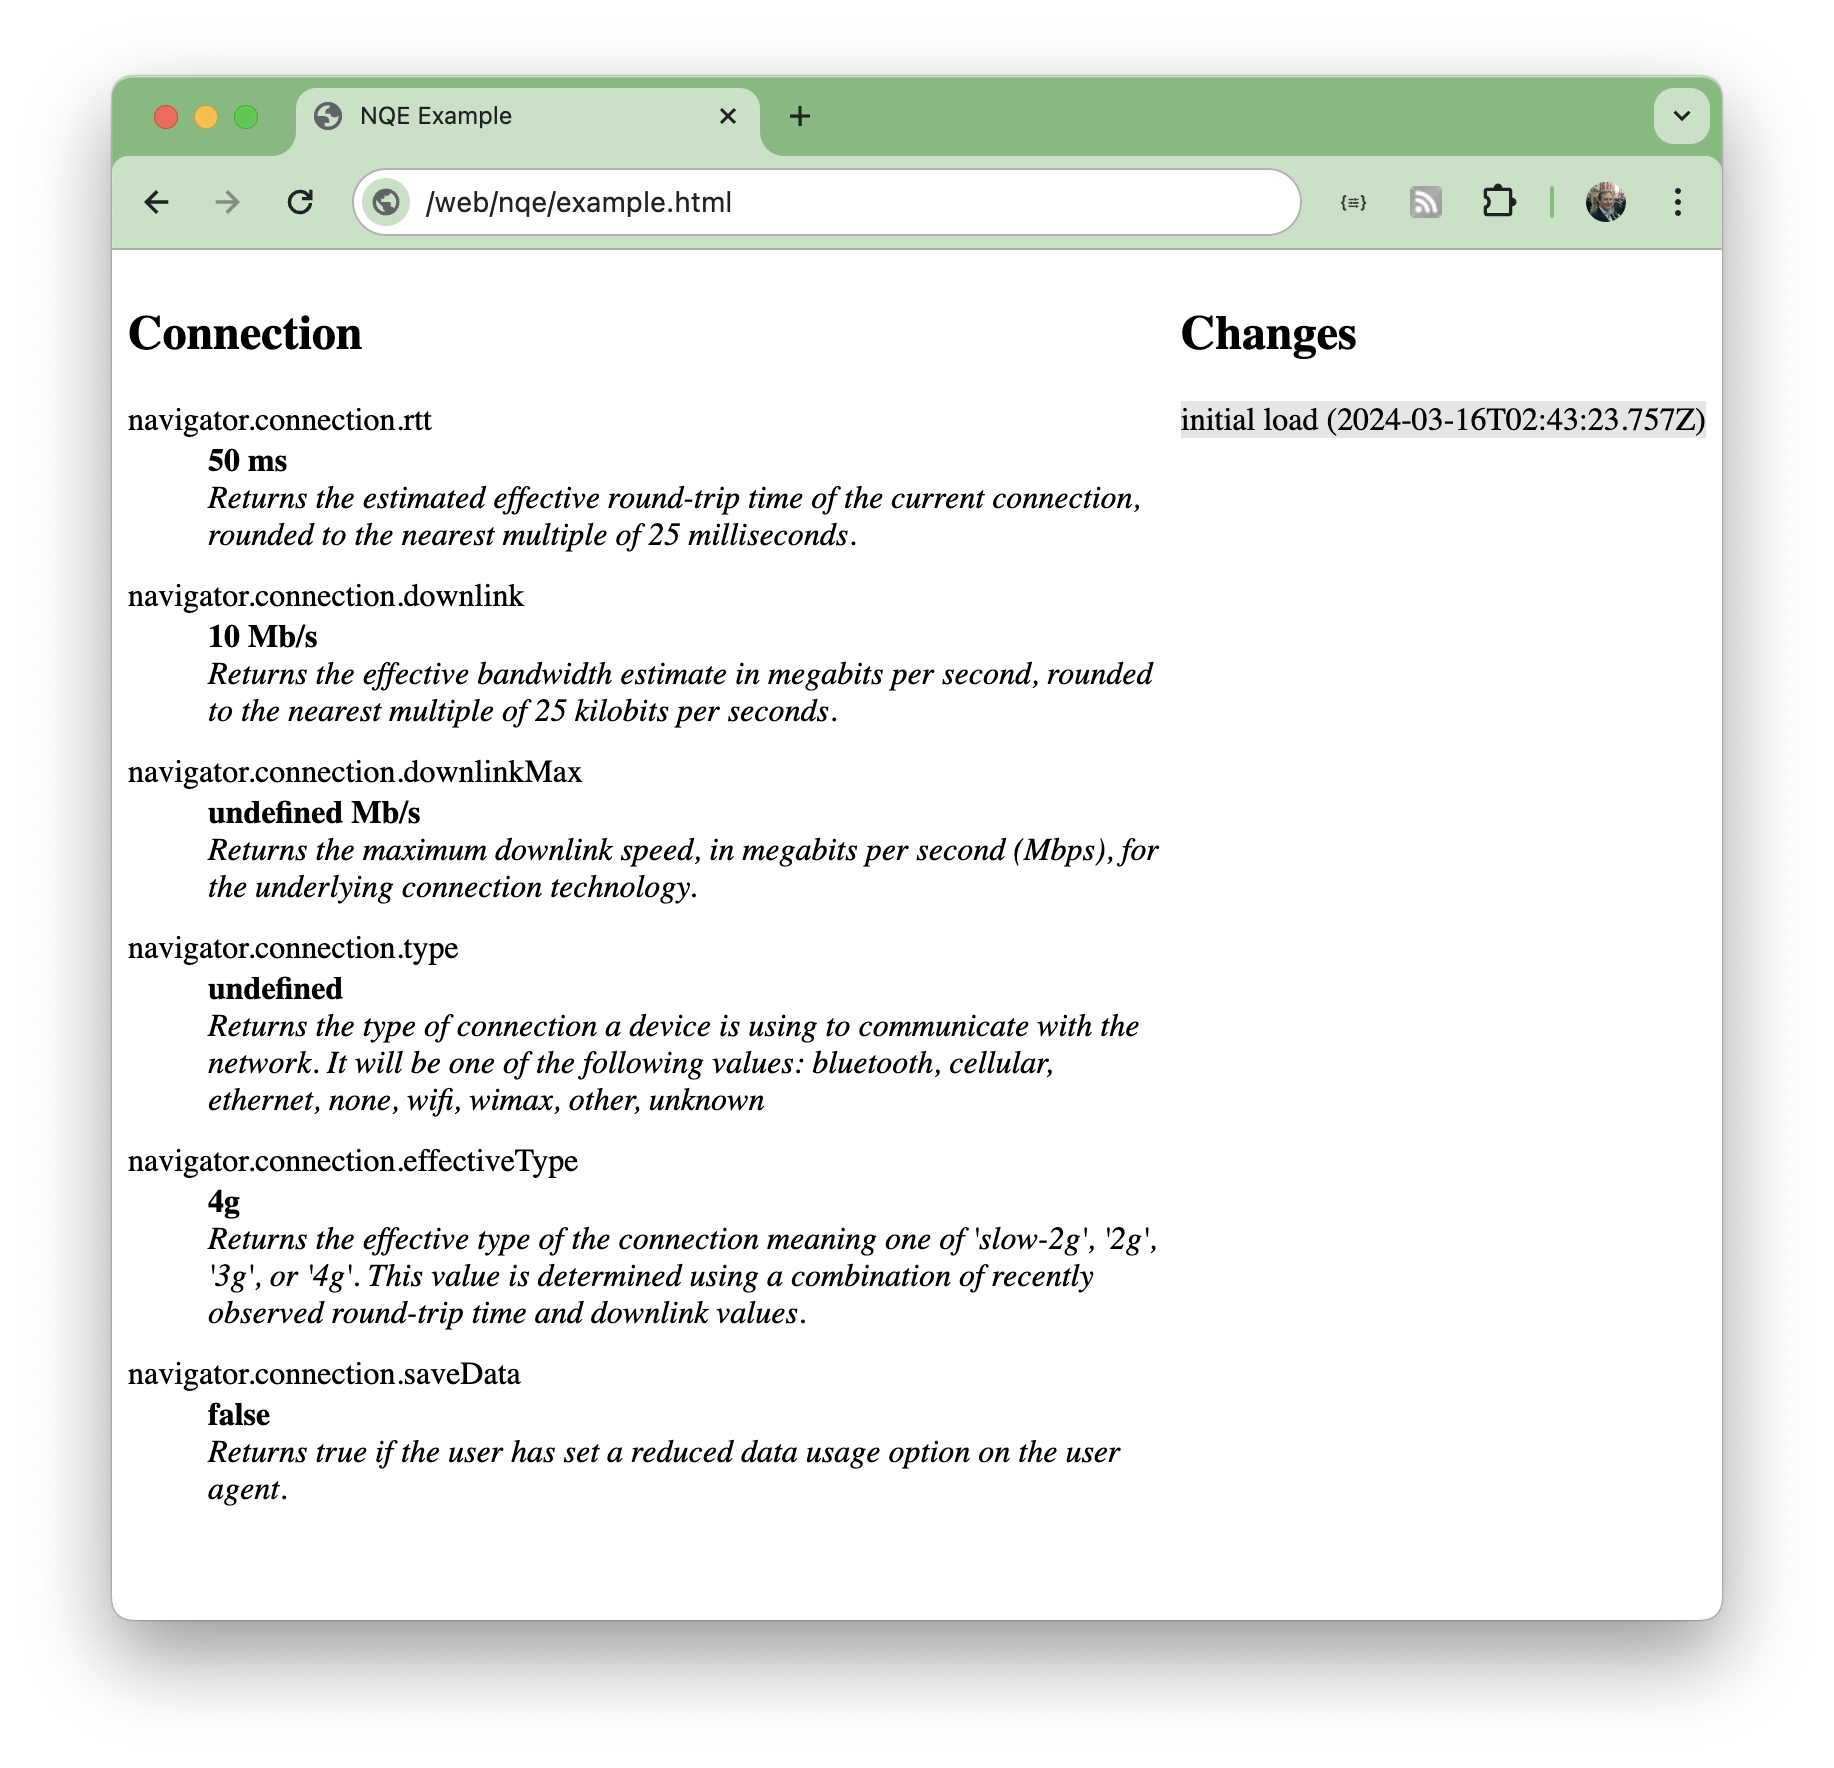
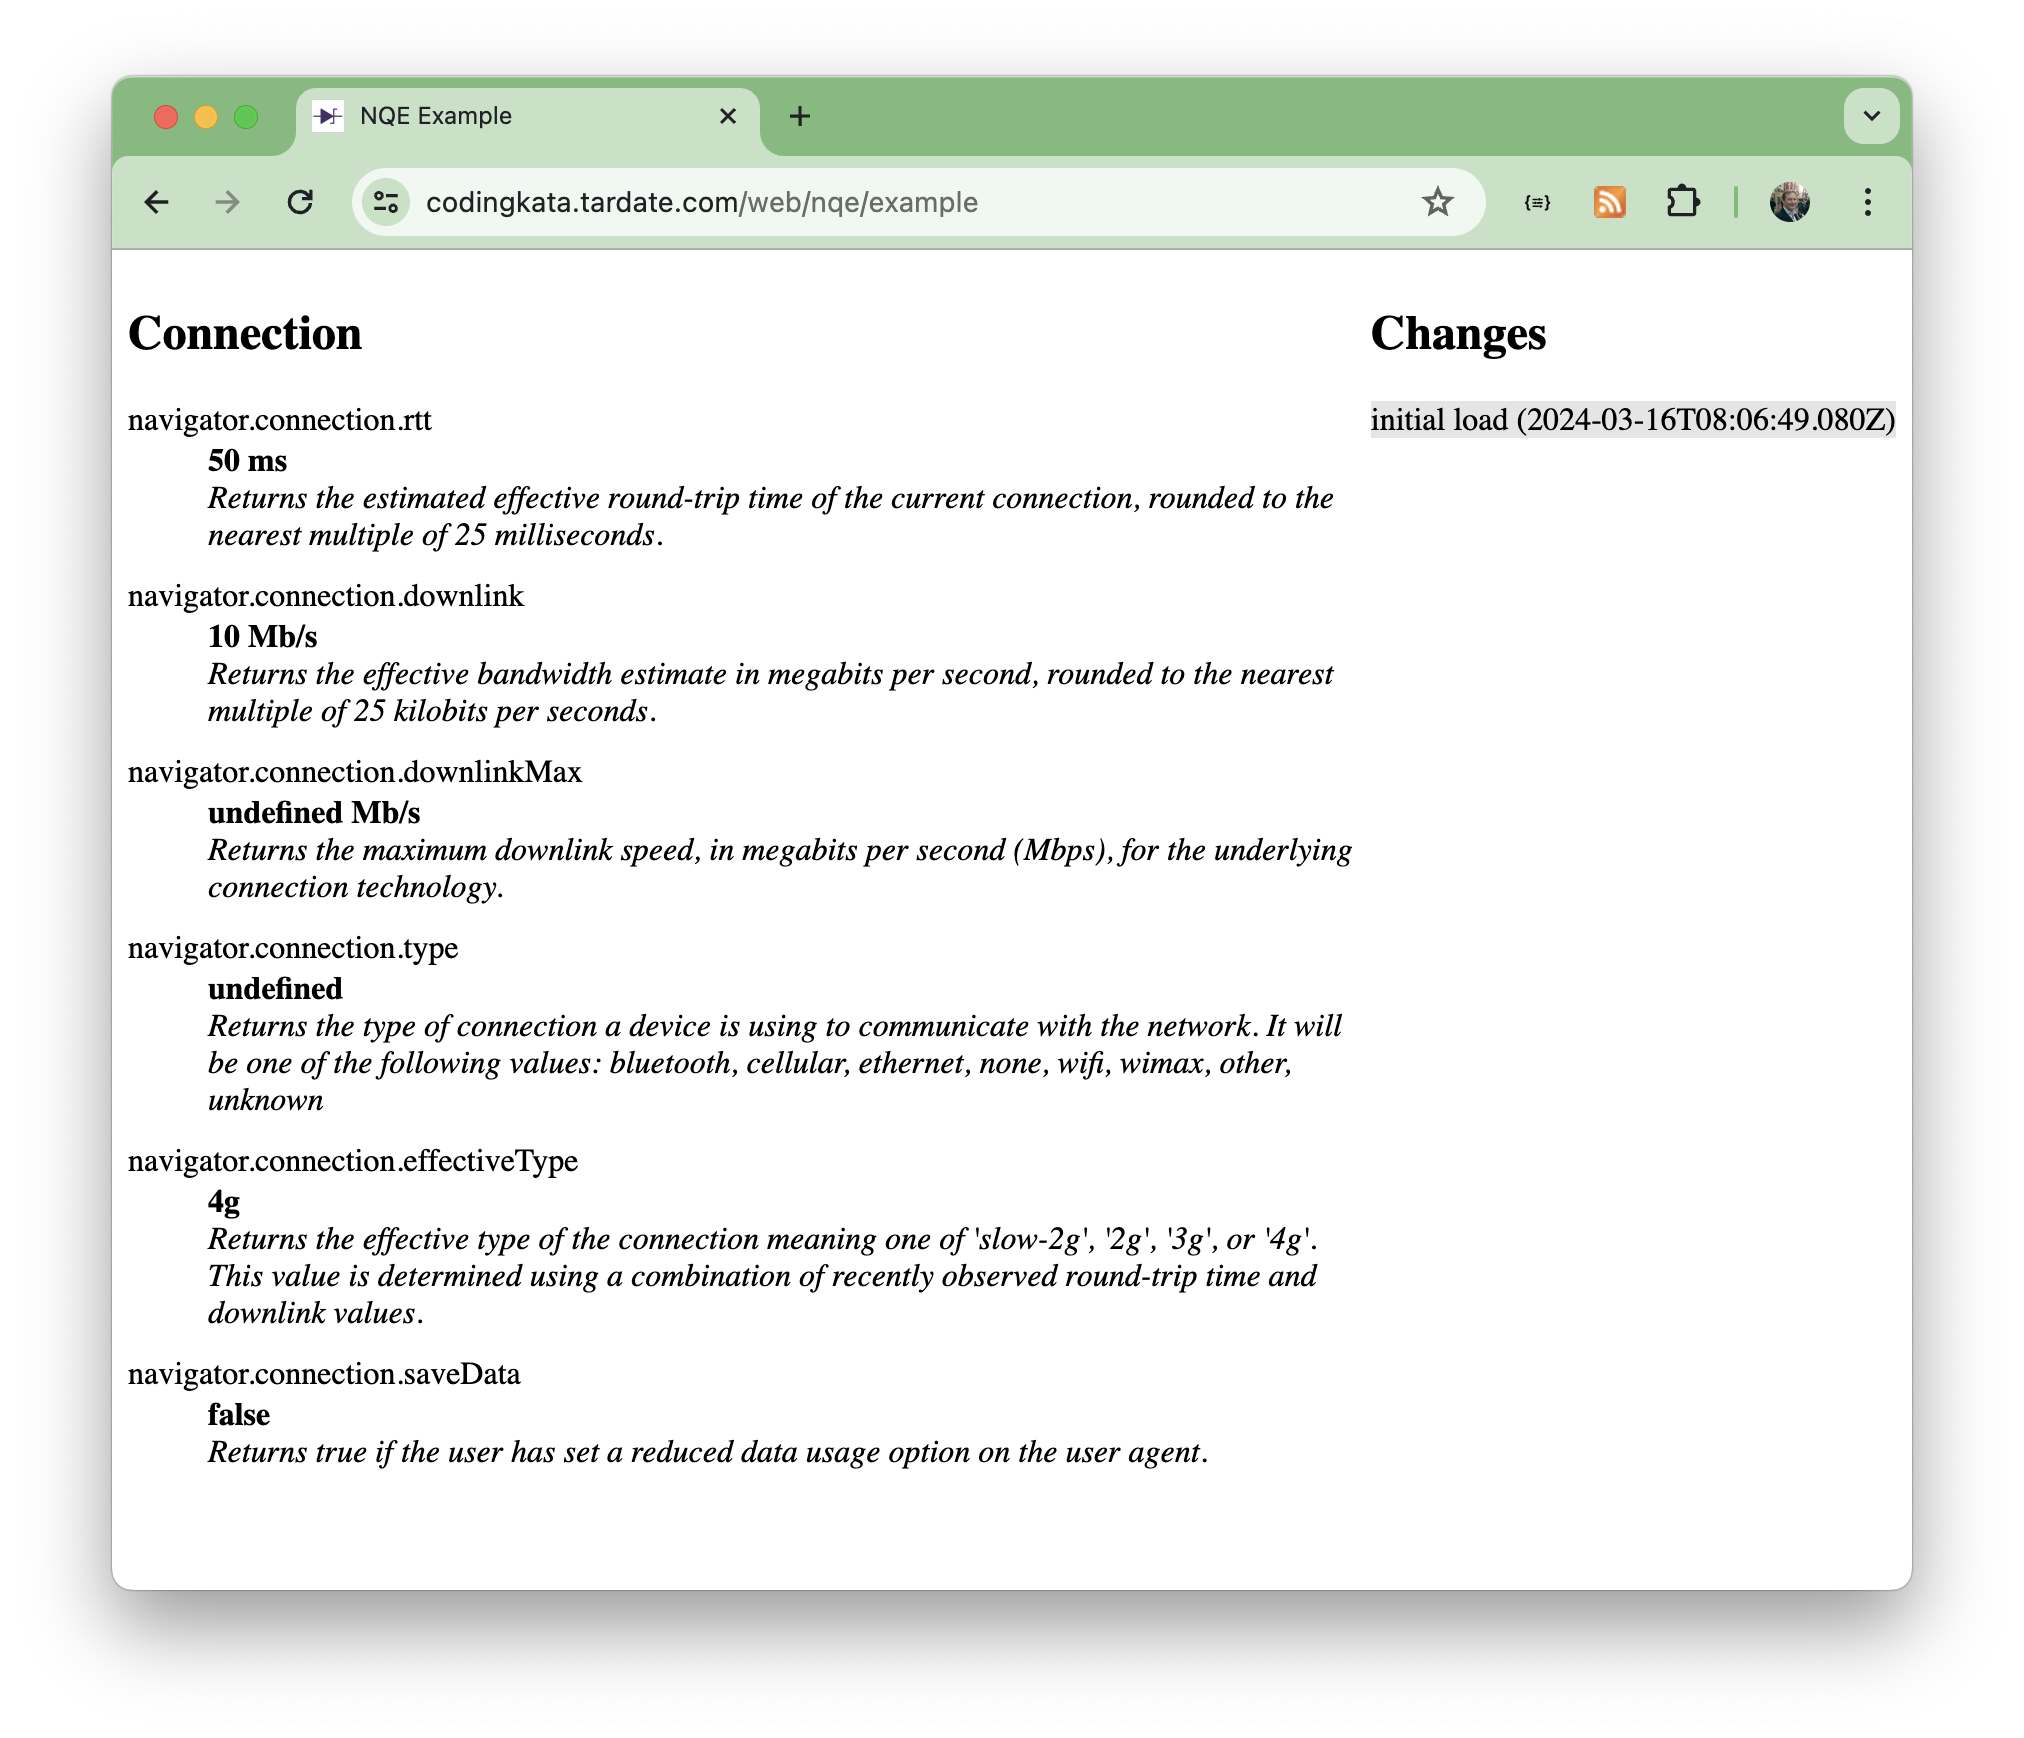
[nqe] update

Changed region(s): [[0.0311, 0.0311, 0.9635, 0.901], [0.9013, 0.0311, 0.9635, 0.0932]]

diff --git a/web/nqe/README.md b/web/nqe/README.md
@@ -8,12 +8,22 @@ The
 [NetworkInformation](https://developer.mozilla.org/en-US/docs/Web/API/NetworkInformation)
 object provides details of the network quality according to the browser.
 
+There is an
+[interesting discussion](https://groups.google.com/a/chromium.org/g/blink-dev/c/tU_Hqqytx8g/m/HTJebzVHBAAJ)
+regarding how this may raise privacy concerns.
+
+### Example
+
 See it in action with the
 [example.html](./example.html).
 
 Results will be like this:
 
 [![nqe_example](./assets/nqe_example.png)](./example.html)
+
+In Chrome, may need to enable experimental web platform features in chrome://flags to get downlinkMax and type to display:
+
+[![nqe_example_experimental](./assets/nqe_example_experimental.png)](./example.html)
 
 ## Credits and References
 
